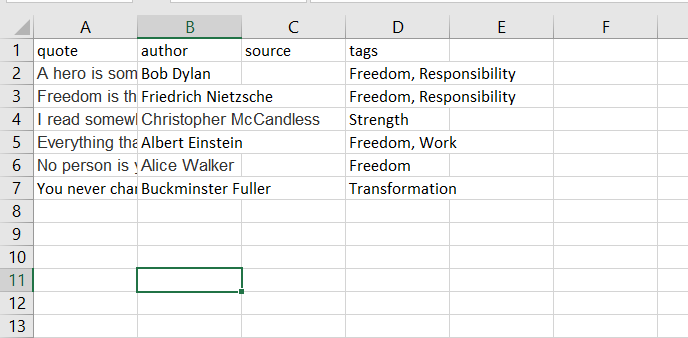
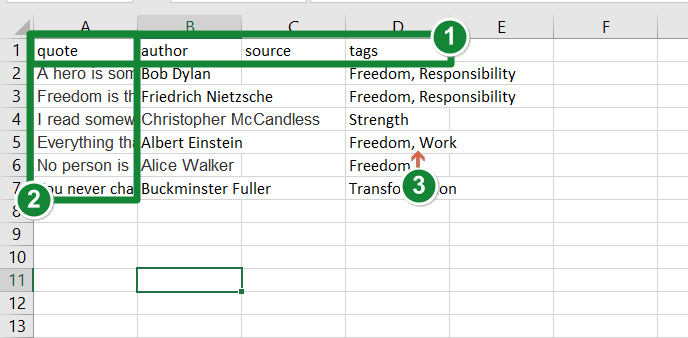
Screenshots Info excel and allquotes

Changed region(s): [[0.0, 0.0296, 0.702, 0.6509], [0.5799, 0.4438, 0.641, 0.6213]]

diff --git a/projects/app2/src2/app/info/quotes-info/quotes-info.component.html b/projects/app2/src2/app/info/quotes-info/quotes-info.component.html
@@ -1,23 +1,51 @@
 <mat-card>
-    <mat-card-title>
-      Managing your Quotes
-    </mat-card-title>
-    <mat-card-content>
-      <p>Here you can create, import, edit and delete your Quotes.</p>
-      <p><mat-icon>warning</mat-icon>In order to "play" your quotes in the QuotePlayer Popup, you will first have to add them to a playlist,
-        which you then will select in the QuotePlayer Popup.</p>
-      <p>To <b>add a new Quote</b> click on the Link <button mat-button>Add a new Quote</button> in the blue navigation bar, fill out the 
-          input fields (only the "Quote" field is obligatory) and click on the send<mat-icon>send</mat-icon> Button.
-          The new quote will be automatically added.</p>
-      <p>To <b>import Quote(s) from Excel</b> click on the Link <button mat-button>Import Quotes from Excel File</button> 
-        in the blue navigation bar,
-        select the excel file that has been prepared by you on your computer, and then click on the orange button
-      <button mat-flat-button color="accent">Import</button>. The Quotes will be automatically added.</p>
-      <p>In the <b>Quotes Table</b> you can view all the Quotes that currently exist in your Database.</p>
-      <p>You can edit <mat-icon>edit</mat-icon> or delete<mat-icon>delete</mat-icon> each Quote</p>
-      <p>You can <b>filter</b> Quotes. Just enter the word by which you want to filter in the corresponding input field.
-      E.g. If you want to show all Quotes by Nietzsche, you enter "Nietzsche" in the "Filter Authors" input field.</p>
-      <p>You can <b>sort</b> the quotes, by clicking on the <mat-icon>arrow_upward</mat-icon>/<mat-icon>arrow_downward</mat-icon>
-        arrow that shows when you hover over the Filter input fields.</p>
-    </mat-card-content>
-  </mat-card>
+  <mat-card-title>
+    Managing your Quotes
+  </mat-card-title>
+  <mat-card-content>
+    <p>Here you can create, import, edit and delete your Quotes.</p>
+    <p>
+      <mat-icon>warning</mat-icon>In order to "play" your quotes in the QuotePlayer Popup, you will first have to add
+      them to a playlist,
+      which you then will select in the QuotePlayer Popup.
+    </p>
+    <mat-card>
+      <mat-card-content>
+        <img src="./assets/img/manage-quotes-screenshot_1.jpg" width="60%" class="float-left">
+        <mat-list>
+          <mat-list-item><img src="./assets/img/stamp1t.png" class="small-stamp">
+            <p>To <b>add a new Quote</b> click on the Link <strong>Add a new Quote</strong>in the blue navigation bar,
+              then fill out the
+              input fields (only the "Quote" field is obligatory) and click on the send<mat-icon>send</mat-icon>
+              Button.
+              The new quote will be automatically added. <br />
+            In order to <strong>clear</strong> all fields without saving them, click <mat-icon>cancel</mat-icon></p>
+          </mat-list-item>
+          <mat-list-item><img src="./assets/img/stamp2t.png" class="small-stamp">
+            <p>To <b>import Quote(s) from Excel</b> click on the Link <strong>Import Quotes from Excel File</strong>
+              in the blue navigation bar.</p>
+          </mat-list-item>
+          <mat-list-item><img src="./assets/img/stamp3t.png" class="small-stamp">
+            <p>In the <b>Quotes Table</b> you can view all the Quotes that currently exist in your Database.</p>
+          </mat-list-item>
+          <mat-list-item><img src="./assets/img/stamp4t.png" class="small-stamp">
+            <p>You can edit <mat-icon>edit</mat-icon> or delete<mat-icon>delete</mat-icon> each Quote</p>
+          </mat-list-item>
+          <mat-list-item><img src="./assets/img/stamp5t.png" class="small-stamp">
+            <p>You can <b>filter</b> Quotes. Just enter the word by which you want to filter in the corresponding input field.
+              E.g. If you want to show all Quotes by Nietzsche, you enter "Nietzsche" in the "Filter Authors" input field.</p>
+          </mat-list-item>
+          <mat-list-item><img src="./assets/img/stamp6t.png" class="small-stamp">
+            <p>You can <b>sort</b> the quotes, by clicking on the <mat-icon>arrow_upward</mat-icon>/<mat-icon>arrow_downward</mat-icon>
+              arrow that shows when you hover over the Filter input fields.</p>  
+          </mat-list-item>
+          <mat-list-item><img src="./assets/img/stamp7t.png" class="small-stamp">
+            <p>With the table paginator you can select how many quotes you want to see at once and move between data sets</p>  
+          </mat-list-item>
+
+        </mat-list>
+      </mat-card-content>
+    </mat-card>
+
+  </mat-card-content>
+</mat-card>

diff --git a/projects/app2/src2/app/info/import-excel/import-excel.component.html b/projects/app2/src2/app/info/import-excel/import-excel.component.html
@@ -3,22 +3,37 @@
     How to import Quotes from an Excel File
   </mat-card-title>
   <mat-card-content>
-    <p>1. Click on the folder Icon and then choose the excel file you want to import from your computer.</p>
-    <p>2. Click on the enabled "Import Quotes from Excel" Button (next to the folder icon)</p>
-    <p>The file can contain only one table and that table has to follow certain specifications</p>
-      <p>(otherwise the "Quote Player" wont be able to interpret the data correctly).</p>
-    <ul>
-      <li>the first row (1) has to contain four fields (from A to D) with the EXACT words:<br />
-        quote | author | source | tags
-      </li>
-      <li>each quote is entered in a new row (e.g. row 2:A-D)</li>
-      <li>the quote column always has to be filled out, the other columns are optional</li>
-      <li>if you want to add more than one tag for one quote, you have to seperate the tags by "," - e.g.
-        "responsibility, vision"</li>
-    </ul>
 
-    <p>Here is a screenshot of an example Excel File:</p>
-    <img src="/app2/assets/img/excel-example.png" width="500px" alt="Image could not be found, please make a bug report">
+   
+    <p><img src="./assets/img/stamp1t.png" class="small-stamp"> Click on the folder Icon and then choose the excel file you want to import from your computer.</p>
+    <img src="./assets/img/import-excel-screenshot_1.jpg" alt="Image could not be found, please make a bug report">
+    
+    
+    <p><img src="./assets/img/stamp2t.png" class="small-stamp">2. Click on the enabled "Import Quotes from Excel" Button (next to the folder icon)</p>
+    <img src="./assets/img/import-excel-screenshot_2.jpg" alt="Image could not be found, please make a bug report">
+    
+    <mat-card>
+      <mat-card-content>
+        <p><br/>The file can contain only one table and that table has to follow certain specifications (otherwise the
+          "Quote Player" wont be able to interpret the data correctly).</p>
+        <img src="/app2/assets/img/excel-example.png" width="500px" alt="Image could not be found, please make a bug report"
+          class="float-left">
+        <mat-list>
+          <mat-list-item><img src="./assets/img/stamp1t.png" class="small-stamp">
+            <p>the first row (1) has to contain four fields (from A to D) with the EXACT words:<br />
+              <strong>quote | author | source | tags</strong>
+            </p>
+          </mat-list-item>
+          <mat-list-item><img src="./assets/img/stamp2t.png" class="small-stamp">
+            <p>the quote column always has to be filled out. The other columns can be left empty</p>
+          </mat-list-item>
+          <mat-list-item><img src="./assets/img/stamp3t.png" class="small-stamp">
+            <p>if you want to add more than one tag for one quote, you have to seperate the tags by ", " - e.g.
+              "responsibility, vision"</p>
+          </mat-list-item>
 
+        </mat-list>
+      </mat-card-content>
+    </mat-card>
   </mat-card-content>
 </mat-card>

diff --git a/projects/app2/src2/app/info/windows-notification-info/windows-notification-info.component.html b/projects/app2/src2/app/info/windows-notification-info/windows-notification-info.component.html
@@ -6,11 +6,11 @@
     <p>Depending on your Operating System, your Chrome Version and Chrome Settings, different kinds of Notifications
       will be used to <strong>play</strong> your Quotes to you.
     </p>
-  <h1 class="headline">
-    Chrome Notifications
-  </h1>
-  <p><strong>Chrome Notifications</strong> look like this</p>
-  <mat-card>
+    <h1 class="headline">
+      Chrome Notifications
+    </h1>
+    <p><strong>Chrome Notifications</strong> look like this</p>
+    <mat-card>
       <mat-card-content>
         <img src="./assets/img/chrome-notification-screenshot_1.jpg" class="float-left">
         <mat-list>
@@ -25,11 +25,17 @@
           </mat-list-item>
 
         </mat-list>
+        
       </mat-card-content>
     </mat-card>
-  <h1 class="headline">
-    Windows Notifications
-  </h1>
+    <p>If you prefer using the Chrome notifications over the native notifications of your operating system, follow
+        these
+        <a href="https://pureinfotech.com/enable-native-chrome-notifications-windows-10/">instructions</a> to
+        <strong>disable
+          native notifications</strong></p>
+    <h1 class="headline">
+      Windows Notifications
+    </h1>
     <p><strong>Windows Notifications</strong> look like this</p>
     <mat-card>
       <mat-card-content>
@@ -64,6 +70,8 @@
       <a href="https://www.groovypost.com/howto/turn-off-change-windows-10-notification-sounds/">instruction</a>
     </p>
     <p>In order to switch off the Notification Sound for <strong>Chrome notifications only</strong> I recommend this
-    <a href="https://www.faqforge.com/windows/windows-10/how-to-turn-off-notification-and-system-sounds-in-windows-10/">instruction</a></p>
+      <a href="https://www.faqforge.com/windows/windows-10/how-to-turn-off-notification-and-system-sounds-in-windows-10/">instruction</a></p>
+
+
   </mat-card-content>
 </mat-card>

diff --git a/projects/app2/src2/styles.scss b/projects/app2/src2/styles.scss
@@ -54,7 +54,7 @@ body {
     background-color: map-get($candy-app-accent,900); 
   }
 
-  .mat-dialog-container .mat-card {
+  .mat-dialog-container > * > .mat-card {
     max-height: 65vh;
     overflow: auto;
 }
